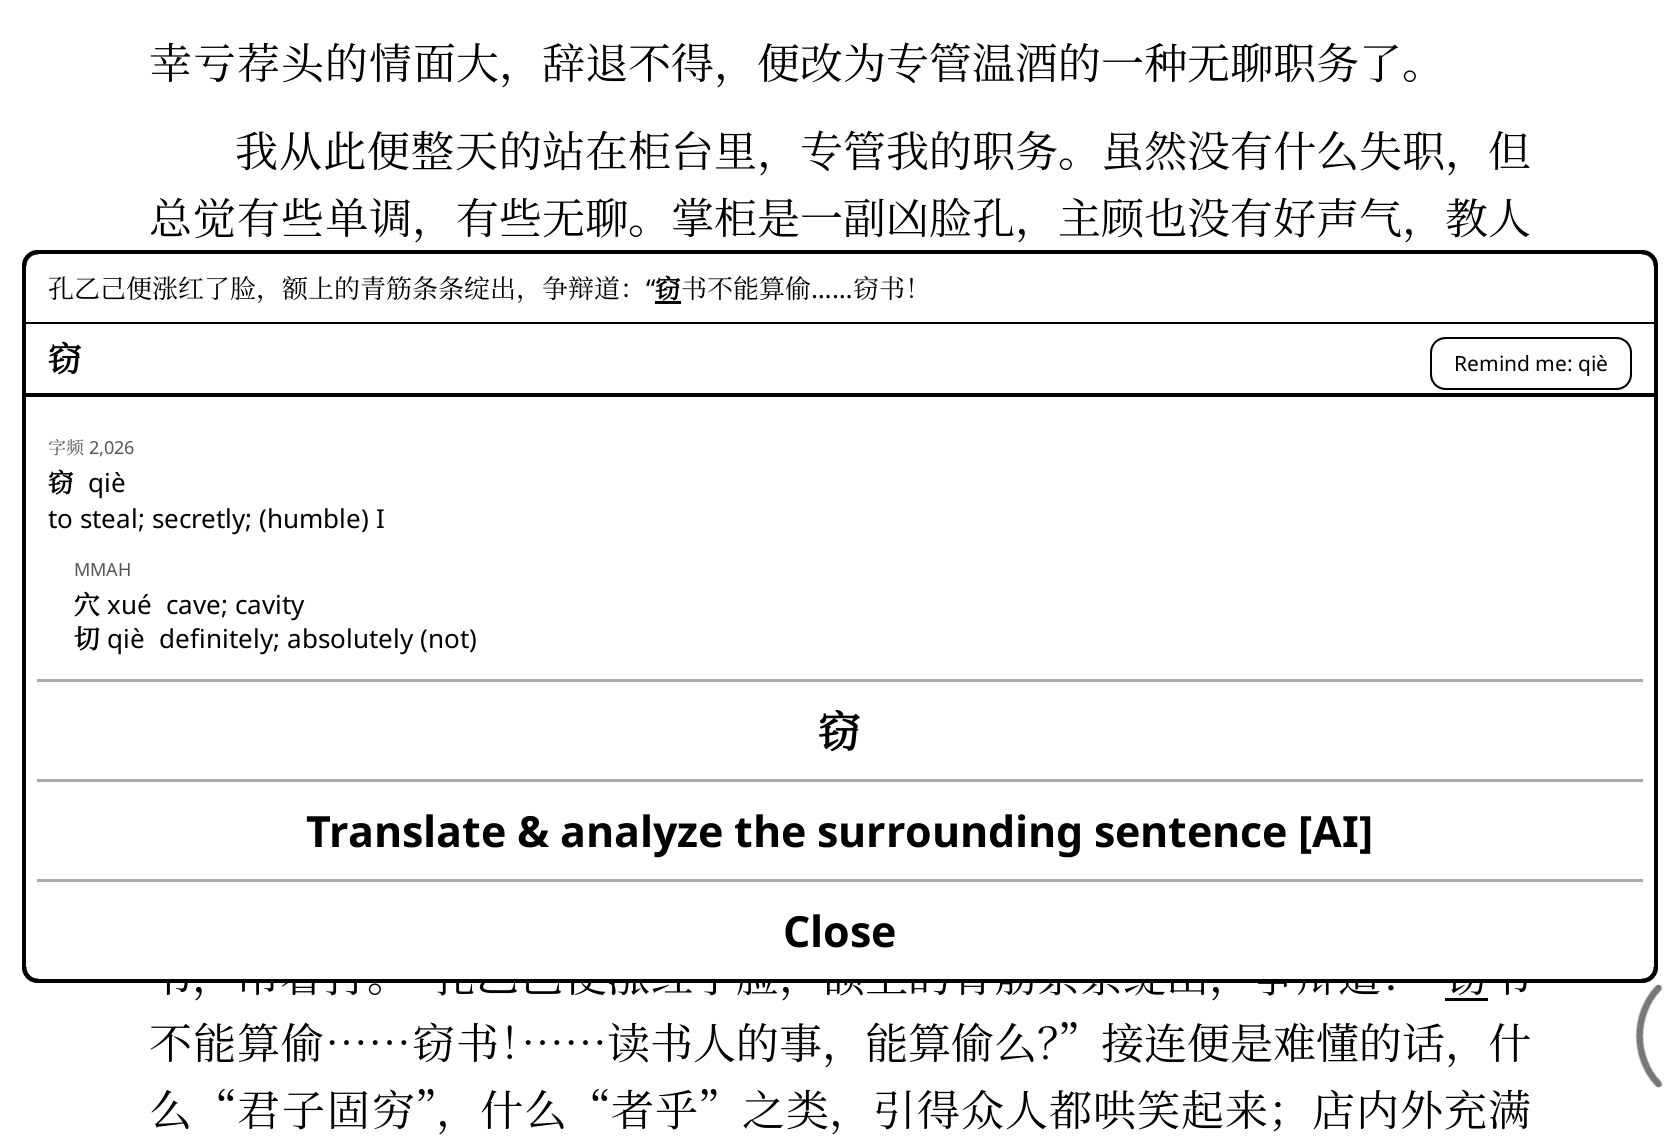
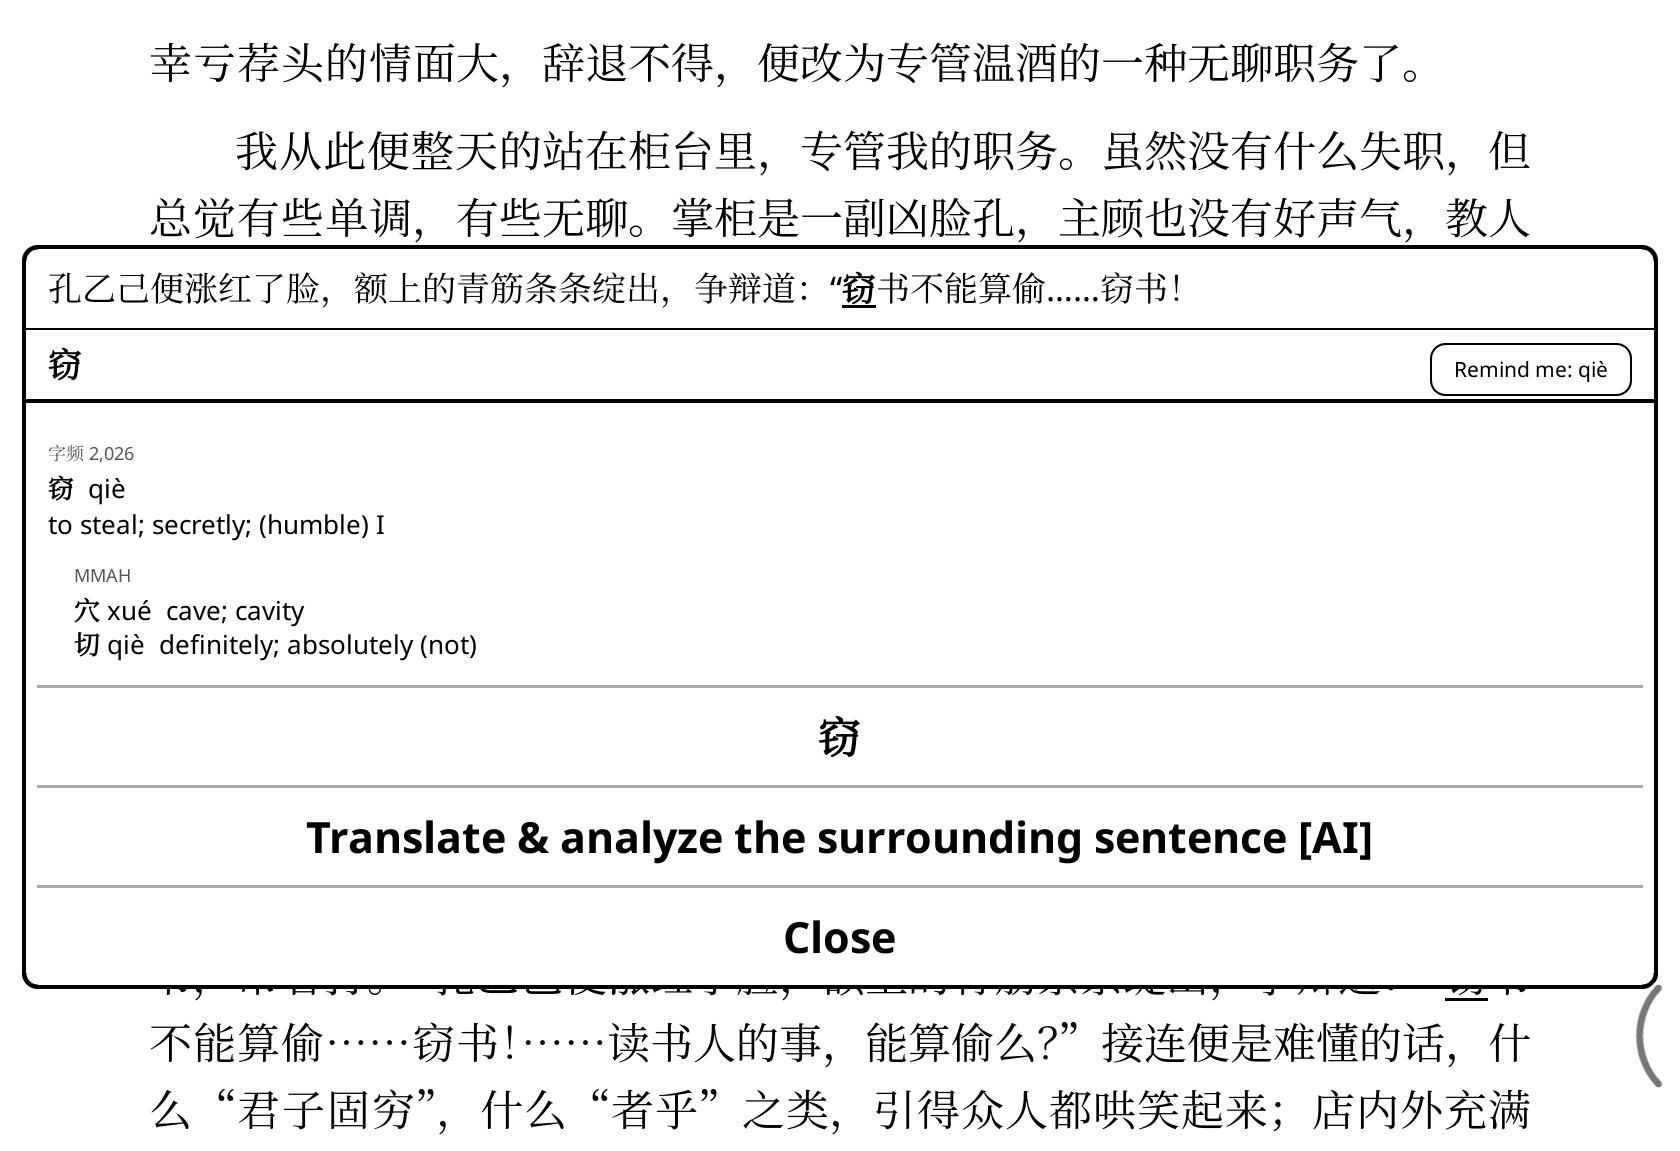
README shots retaken for the larger context line (#33)
Popups are about 11 px taller since 2.9.0: crops moved to the new
borders (±10). Taps unchanged (nested 欢 and 出处 still land).

diff --git a/tools/make_screenshots.py b/tools/make_screenshots.py
@@ -139,32 +139,32 @@ SHOTS = {
     "main": dict(page="sg1", taps=[("密", 1, (172, 1150), [
         "**密**  mì", "**宓** mì  still; silent  → sound (same sound)", "**山** shān  mountain  → meaning",
         "[Wikt]", "**不密**  bùmì", "(literary) not well thought out; (literary) not secret"])],
-        frames=[(1, (100, 1185))]),
+        frames=[(1, (95, 1191))]),
     "context": dict(page="kyj14", taps=[("间", 1, (773, 500), [
         "**间**  jiàn · likely here", "**间或**  jiànhuò · decides 间's reading"])],
-        frames=[(1, (178, 1085))]),
+        frames=[(1, (172, 1090))]),
     "components": dict(page="kyj13", taps=[("茴", 1, (988, 790), [
         "**茴**  huí", "**艹** cǎo  grass; plant (草字头)  → meaning",
         "**回** huí  to go back; to return  → sound (same sound)", "**茴香豆**  huíxiāngdòu"])],
-        frames=[(1, (168, 1094))]),
+        frames=[(1, (163, 1100))]),
     "traditional": dict(page="aq59", taps=[("观", 1, (170, 965), [
         "**观**  guān · likely here", "traditional 觀:", "**雚** guàn", "→ sound (same sound)",
         "simplified: 雚 → 又", "**观音**  Guānyīn · decides 观's reading"])],
-        frames=[(1, (144, 1119))]),
+        frames=[(1, (138, 1124))]),
     "chengyu": dict(page="kyj13", taps=[("也", 3, (170, 590), [
         "**之乎者也**  zhīhūzhěyě", "[新华] 这四个字都是文言虚词"]), ("出处", None, (1440, 890), [])],
-        frames=[(1, (110, 1152)), (2, (20, 700))]),
+        frames=[(1, (105, 1158)), (2, (20, 700))]),
     "labels": dict(page="sg1", taps=[("秋", 1, (775, 665), [
         "**秋**  qiū", "[MMAH]", "  [MOE]\n  **秋月春风**", "**秋月春风**  qiū yuè chūn fēng", "[Wikt]", "**秋月**  qiūyuè"])],
-        frames=[(1, (89, 1174))]),
+        frames=[(1, (83, 1179))]),
     # A character of the popup's own text: 欢, inside MOE's quotation of 〈琵琶行〉,
     # opens its popup on top; the context line is the quotation (the device's
     # log must give it as the sentence), the 欢 below underlined.
     "nested": dict(page="sg1", taps=[("秋", 1, (775, 665), ["  [MOE]\n  **秋月春风**  qiū yuè chūn fēng"]),
                                      ("欢", "nested", (1322, 772), ["「今年欢笑复明年，秋月春风等闲度。」"])],
-                   frames=[(2, (89, 1174))]),
+                   frames=[(2, (83, 1179))]),
     "translate": dict(page="kyj13", taps=[("窃", 1, (1465, 995), ["**窃**  qiè"])],
-        frames=[(1, (15, 1160))]),
+        frames=[(1, (15, 1166))]),
     # The same popup, then its Translate & Analyze button (at `koassistant`):
     # KOAssistant's reply, its viewer unrolled: the first page, then the last
     # page's text and buttons (`koassistant_end` is the viewer's ↘ button),
@@ -185,7 +185,7 @@ SHOTS = {
     "learner-known": dict(page="aq59", threshold=0, known=LEARNER_KNOWN, taps=[], frames=[(0, (440, 995))]),
     # The popup's title-bar button, on 盘 in that paragraph.
     "mark-button": dict(page="aq59", threshold=0, drawn=AQ59_ALL, taps=[("盘", 1, (260, 565), ["**盘**  pán"])],
-                        frames=[(1, (193, 555))]),
+                        frames=[(1, (188, 561))]),
 }
 
 
